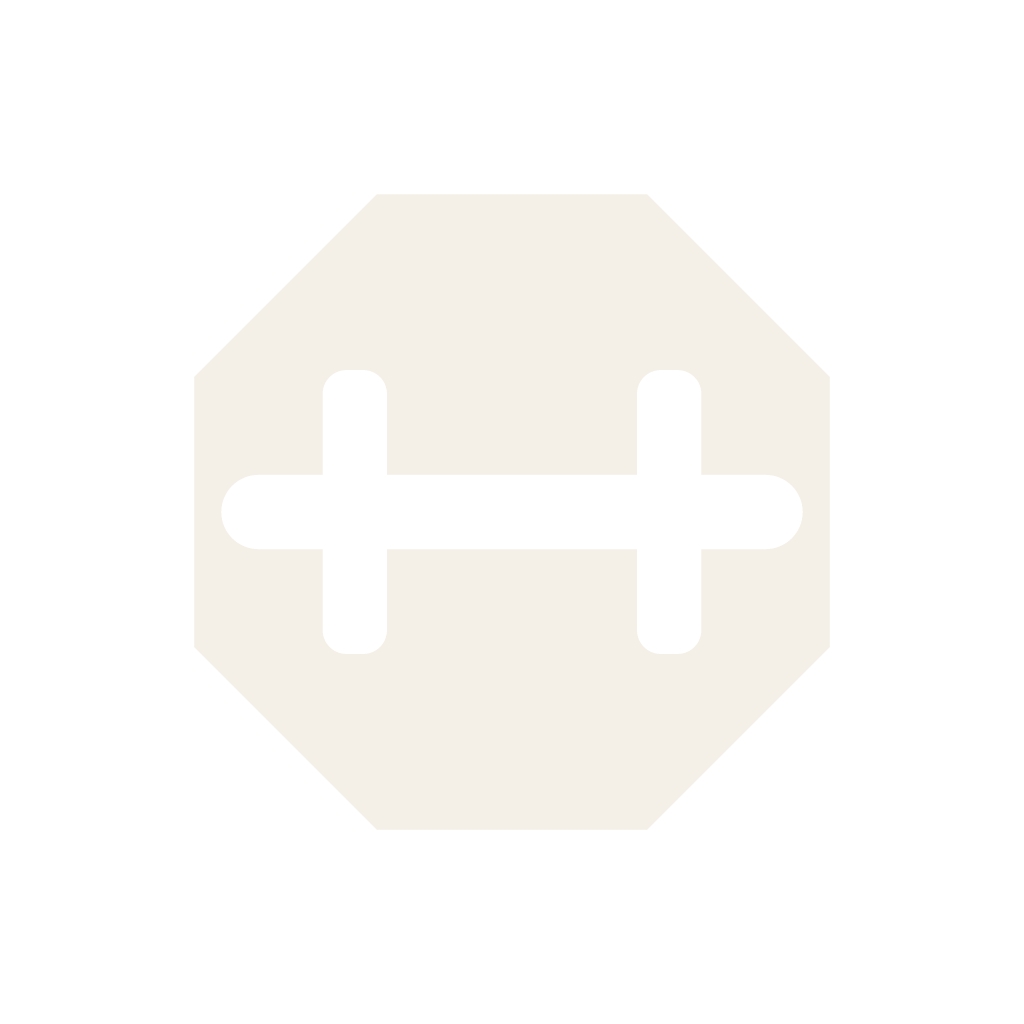
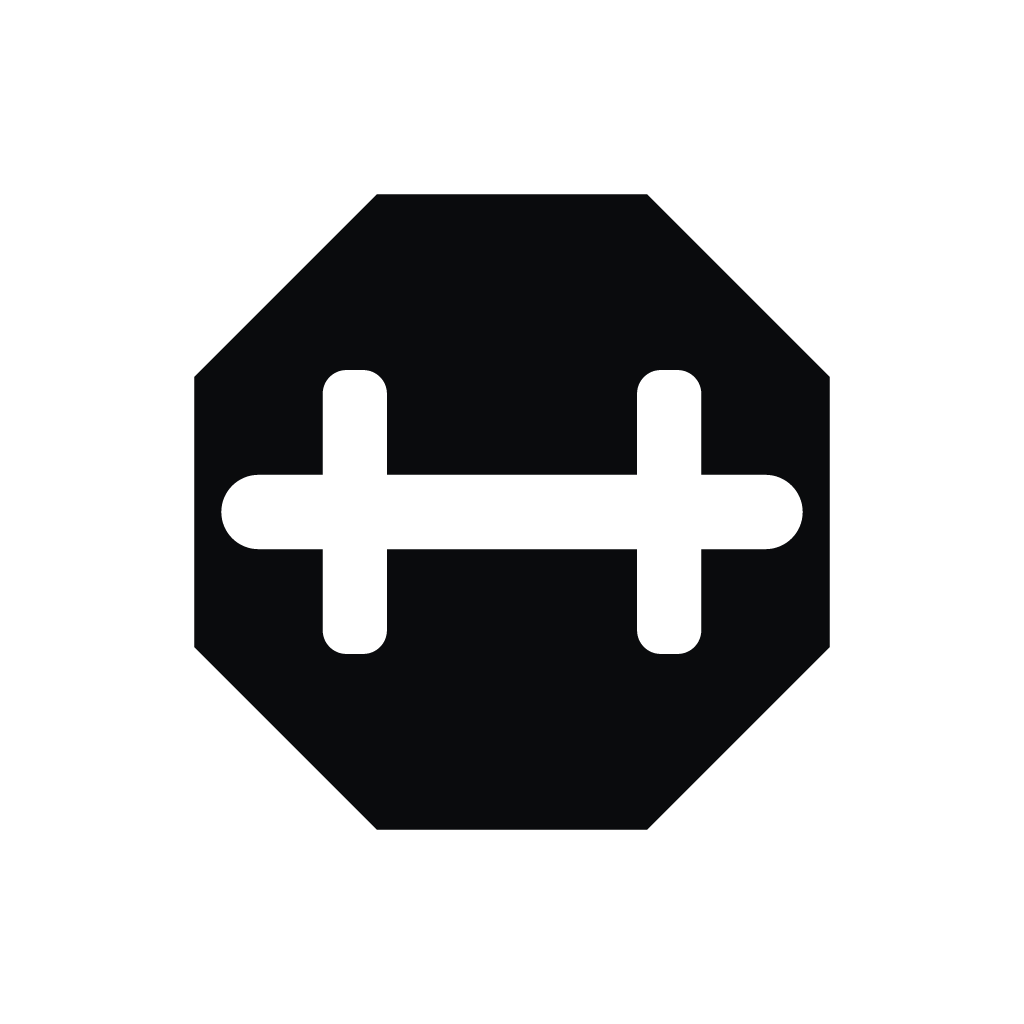
Rebrand to Volt palette: graphite neutrals + electric lime accent
Replaces the warm vermilion/cream scheme across the app and brand assets:

- colors.ts: cool graphite dark theme and paper-white light theme; volt
  lime primary (#C8F031 dark / #65A30D light); conditioning badge shifts
  to teal so it doesn't fight the lime
- BRAND block renamed to ink/volt/voltDeep/steel/bone; OctaMark,
  RepRoundsWordmark, and RepRoundsLockup now import it instead of
  hardcoding their own hex constants
- Wordmark uses voltDeep on light backgrounds (volt lime is unreadable
  on white)
- Regenerated app icons: ink bg + volt mark (iOS), ink mark on volt
  adaptive-icon background (Android)
- Splash and sign-in tagline grays updated to the cool neutrals

Claude-Session: https://claude.ai/code/session_01KSN1EBzfUjbXrrCPeLdRU4

Changed region(s): [[0.1875, 0.1875, 0.8125, 0.8125]]

diff --git a/frontend/src/theme/colors.ts b/frontend/src/theme/colors.ts
@@ -18,38 +18,38 @@ export type ThemeColors = {
 };
 
 export const darkTheme: ThemeColors = {
-  bg:           '#0d0f14',
-  surface:      '#1a1d26',
-  surface2:     '#22262f',
-  primary:      '#D8432A',
-  onPrimary:    '#0d0f14',
-  text:         '#fef3c7',
-  textDim:      '#a8a29e',
-  muted:        '#78716c',
+  bg:           '#0a0b0d',
+  surface:      '#141518',
+  surface2:     '#1b1d21',
+  primary:      '#C8F031',
+  onPrimary:    '#0a0b0d',
+  text:         '#f2f3f0',
+  textDim:      '#9da29b',
+  muted:        '#6e736d',
   border:       'rgba(255,255,255,0.07)',
   borderStrong: 'rgba(255,255,255,0.14)',
   gold:         '#fbbf24',
   danger:       '#ef4444',
   grappling:    '#a78bfa',
-  conditioning: '#10b981',
+  conditioning: '#14b8a6',
   performance:  '#3b82f6',
 };
 
 export const lightTheme: ThemeColors = {
-  bg:           '#f8f4ec',
+  bg:           '#f6f7f4',
   surface:      '#ffffff',
-  surface2:     '#f0ece3',
-  primary:      '#C23A23',
+  surface2:     '#eceee8',
+  primary:      '#65A30D',
   onPrimary:    '#ffffff',
-  text:         '#1c1917',
-  textDim:      '#57534e',
-  muted:        '#a8a29e',
+  text:         '#191c17',
+  textDim:      '#555a4f',
+  muted:        '#9ca394',
   border:       'rgba(0,0,0,0.07)',
   borderStrong: 'rgba(0,0,0,0.14)',
-  gold:         '#d97706',
+  gold:         '#b45309',
   danger:       '#dc2626',
   grappling:    '#7c3aed',
-  conditioning: '#059669',
+  conditioning: '#0d9488',
   performance:  '#2563eb',
 };
 
@@ -72,8 +72,9 @@ export const F = {
 } as const;
 
 export const BRAND = {
-  ink:       '#17140F',
-  vermilion: '#D8432A',
-  cream:     '#EBE0CC',
-  bone:      '#F4F0E7',
+  ink:      '#0A0B0D', // near-black graphite — icon/splash background, on-light mark
+  volt:     '#C8F031', // electric lime accent — on dark surfaces only
+  voltDeep: '#65A30D', // accent for light backgrounds (volt is unreadable on white)
+  steel:    '#E8EAE3', // cool light neutral (replaces cream)
+  bone:     '#F6F7F4', // near-white paper — on-dark mark, light bg
 } as const;

diff --git a/frontend/src/components/RepRoundsWordmark.tsx b/frontend/src/components/RepRoundsWordmark.tsx
@@ -1,8 +1,8 @@
 import { Text, View } from 'react-native';
+import { BRAND } from '../theme/colors';
 
-const INK = '#17140F';
-const VERMILION = '#D8432A';
-const BONE = '#F4F0E7';
+const INK = BRAND.ink;
+const BONE = BRAND.bone;
 
 interface RepRoundsWordmarkProps {
   fontSize?: number;
@@ -11,6 +11,8 @@ interface RepRoundsWordmarkProps {
 
 export function RepRoundsWordmark({ fontSize = 21, onDark = false }: RepRoundsWordmarkProps) {
   const repColor = onDark ? BONE : INK;
+  // Volt lime is unreadable on white — use the deep variant on light backgrounds.
+  const roundsColor = onDark ? BRAND.volt : BRAND.voltDeep;
   const letterSpacing = -0.02 * fontSize;
 
   const textStyle = {
@@ -23,7 +25,7 @@ export function RepRoundsWordmark({ fontSize = 21, onDark = false }: RepRoundsWo
   return (
     <View style={{ flexDirection: 'row', alignItems: 'center' }}>
       <Text style={[textStyle, { color: repColor }]}>Rep</Text>
-      <Text style={[textStyle, { color: VERMILION }]}>Rounds</Text>
+      <Text style={[textStyle, { color: roundsColor }]}>Rounds</Text>
     </View>
   );
 }

diff --git a/frontend/src/components/OctaMark.tsx b/frontend/src/components/OctaMark.tsx
@@ -1,4 +1,5 @@
 import Svg, { Defs, Mask, Polygon, Rect } from 'react-native-svg';
+import { BRAND } from '../theme/colors';
 
 export type OctaVariant = 'solid' | 'line' | 'two-tone';
 
@@ -8,8 +9,8 @@ interface OctaMarkProps {
   color?: string;
 }
 
-const INK = '#17140F';
-const VERMILION = '#D8432A';
+const INK = BRAND.ink;
+const VOLT = BRAND.volt;
 
 const OCTA_POINTS = '60,6 140,6 194,60 194,140 140,194 60,194 6,140 6,60';
 
@@ -59,9 +60,9 @@ export function OctaMark({ size = 48, variant = 'solid', color }: OctaMarkProps)
         strokeWidth="16"
         strokeLinejoin="round"
       />
-      <Rect x="18" y="90" width="164" height="20" rx="10" fill={VERMILION} />
-      <Rect x="44" y="62" width="18" height="76" rx="6" fill={VERMILION} />
-      <Rect x="138" y="62" width="18" height="76" rx="6" fill={VERMILION} />
+      <Rect x="18" y="90" width="164" height="20" rx="10" fill={VOLT} />
+      <Rect x="44" y="62" width="18" height="76" rx="6" fill={VOLT} />
+      <Rect x="138" y="62" width="18" height="76" rx="6" fill={VOLT} />
     </Svg>
   );
 }

diff --git a/frontend/app/splash.tsx b/frontend/app/splash.tsx
@@ -27,7 +27,7 @@ export default function SplashScreen() {
   }
 
   return (
-    <View style={{ flex: 1, backgroundColor: '#17140F', alignItems: 'center', justifyContent: 'center' }}>
+    <View style={{ flex: 1, backgroundColor: '#0A0B0D', alignItems: 'center', justifyContent: 'center' }}>
       <MotiView
         from={{ opacity: 0, scale: 0.9 }}
         animate={{ opacity: 1, scale: 1 }}

diff --git a/frontend/src/components/RepRoundsLockup.tsx b/frontend/src/components/RepRoundsLockup.tsx
@@ -1,9 +1,10 @@
 import { View } from 'react-native';
 import { OctaMark } from './OctaMark';
 import { RepRoundsWordmark } from './RepRoundsWordmark';
+import { BRAND } from '../theme/colors';
 
-const BONE = '#F4F0E7';
-const INK = '#17140F';
+const BONE = BRAND.bone;
+const INK = BRAND.ink;
 
 type LockupSize = 'sm' | 'md' | 'lg';
 

diff --git a/frontend/app.config.ts b/frontend/app.config.ts
@@ -17,7 +17,7 @@ const config: ExpoConfig = {
   android: {
     adaptiveIcon: {
       foregroundImage: './assets/images/icon-fg.png',
-      backgroundColor: '#D8432A',
+      backgroundColor: '#C8F031',
     },
     package: 'com.reprounds.app',
     // EAS builds ignore this (appVersionSource: remote); self-hosted Gradle

diff --git a/frontend/app/(auth)/sign-in.tsx b/frontend/app/(auth)/sign-in.tsx
@@ -281,7 +281,7 @@ function makeStyles(T: ThemeColors) {
     tagline: {
       fontFamily: F.mono,
       fontSize: 11,
-      color: '#A29B90',
+      color: '#9DA29B',
       letterSpacing: 2.4,
       textTransform: 'uppercase',
     },
